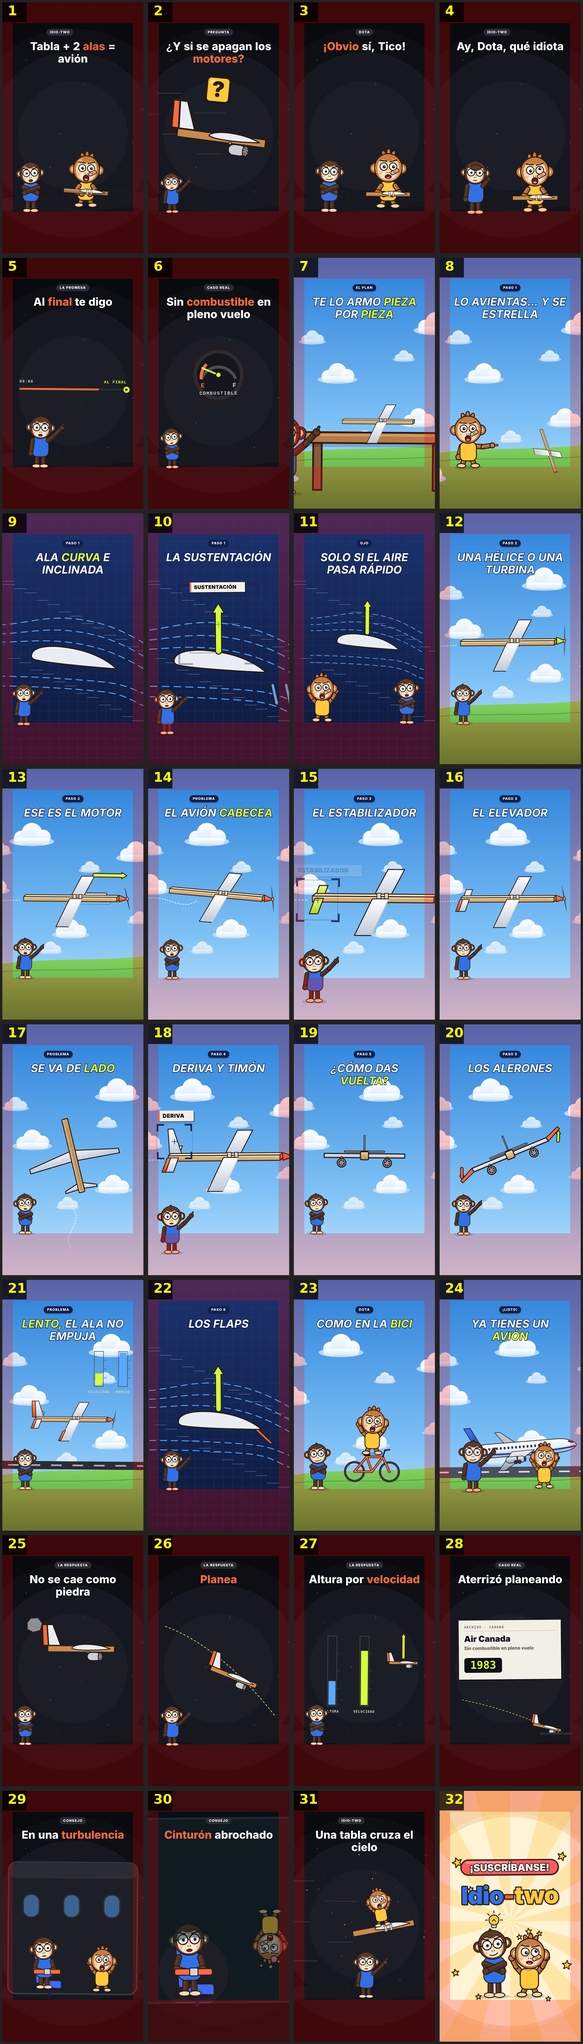
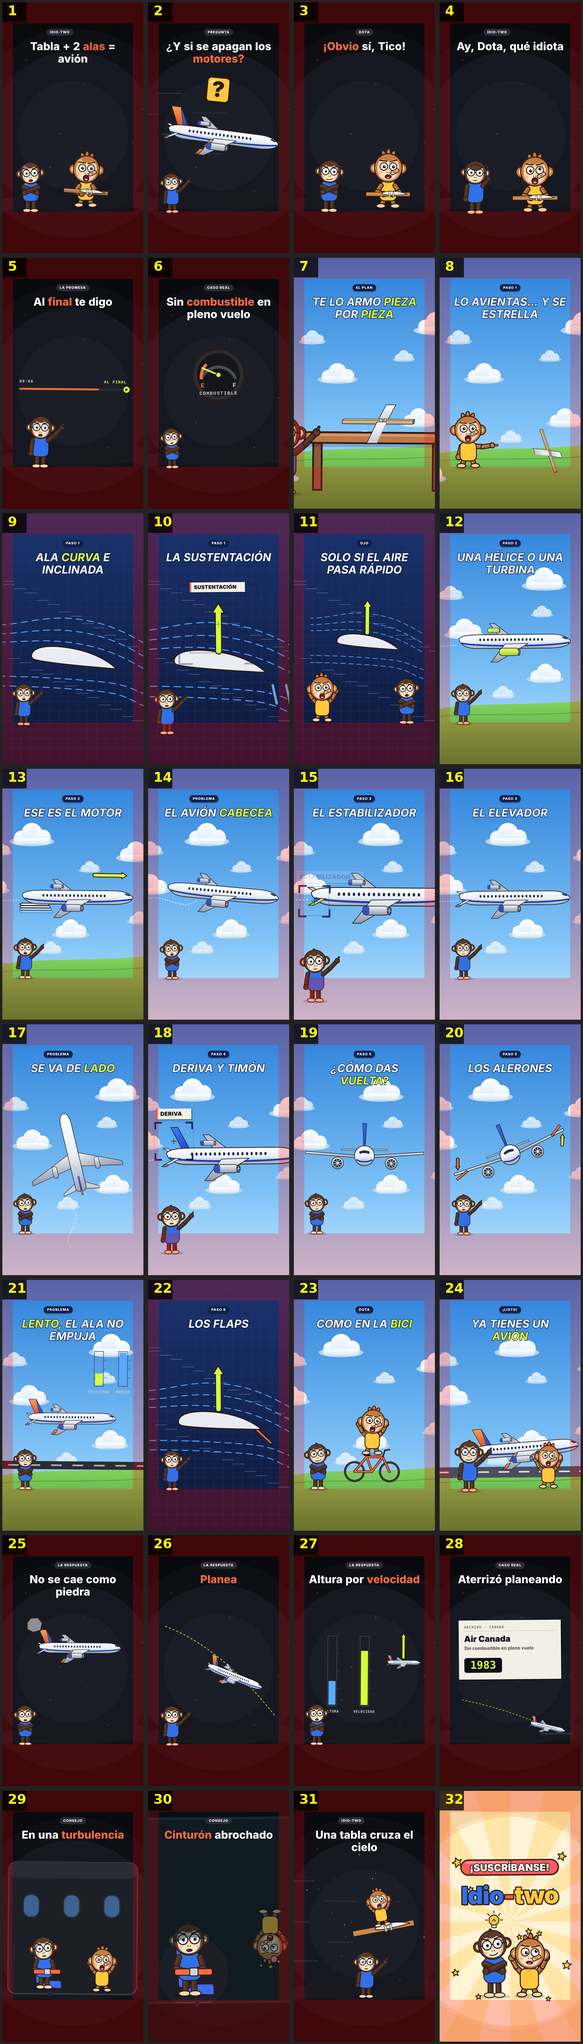
Avion: explain with a commercial airliner (side, front and top views) instead of the board plane
Claude-Session: https://claude.ai/code/session_01CCYL4pfB5svmsfTYwXD8rF

diff --git a/videos/avion/visuals.ts b/videos/avion/visuals.ts
@@ -17,7 +17,7 @@ function vaTalk(tl: VaTl, $: Va$, id: string, s: Scene, who: 'tico' | 'dota') {
 const vaTicoC = (pose: AvTicoPose = 'cross') => avTico('tc', 190, 1590, 0.48, pose);
 const vaDotaC = (pose: AvDotaPose = 'down') => avDota('dc', 900, 1590, 0.55, pose, true);
 // background + camera wrapper
-const vaBurst = (body: string, over = '') => svg(`${avPrint()}<g id="cam"><g id="camP"><g id="camZ">${body}</g>${over}</g></g>`, AV_DEFS);
+const vaBurst = (body: string, over = '') => svg(`${avPrint()}<g id="cam"><g id="camP"><g id="camZ">${body}</g>${over}</g></g>`, AV_SKY_DEFS);
 const vaPrint = vaBurst;
 // the building part uses the sky style of the second reference
 const VA_SKY = new Set(['armo', 'crash', 'wing', 'lift', 'vuela', 'turb', 'motor', 'pitch', 'stab', 'elev', 'yaw', 'fin', 'roll', 'ail', 'slow', 'flaps', 'bike', 'felicidades']);
@@ -75,6 +75,11 @@ function vaMove(tl: VaTl, $: Va$, sel: string, a: [number, number, number], b: [
   document.querySelector($(sel))?.setAttribute('transform', `translate(${a[0]} ${a[1]}) rotate(${a[2]})`);
   tl.fromTo(p, { k: 0 }, { k: 1, duration: d, ease, onUpdate: set, onStart: set }, t);
 }
+// the ailerons of the front view appear painted lime
+function avPaintFront(tl: VaTl, $: Va$, t: number) {
+  tl.set($('#pf-ails'), { opacity: 1 }, t); avPopIn(tl, $('#pf-ailR'), t); avPopIn(tl, $('#pf-ailL'), t);
+  tl.fromTo($('#pf-ails path'), { fill: '#e6ff3a' }, { fill: '#ff9a5a', duration: 0.6, ease: 'power1.in', immediateRender: false }, t + 1.1);
+}
 const vaAll: AvPlaneOpts = { turb: true, stab: true, elev: true, fin: true, rud: true };
 
 defineVisuals({
@@ -90,11 +95,11 @@ defineVisuals({
     },
   },
   off: {
-    html: () => vaBurst(`${vaStreaks()}<g id="pl">${avPlaneSide('p', 560, 1050, 1, vaAll)}</g>${avSmoke('sm', 770, 1110, 0.8, '#5b5e68')}${avQuestion('q', 540, 680, 0.75)}${vaTicoC('point')}`),
+    html: () => vaBurst(`${vaStreaks()}<g id="pl">${avLiner('p', 560, 1050, 0.95, AV_LINER_ALL)}</g>${avSmoke('sm', 430, 1110, 0.8, '#5b5e68')}${avQuestion('q', 540, 680, 0.75)}${vaTicoC('point')}`),
     anim(tl, s, K, $) {
       vaBase(tl, s, $); vaStreakRun(tl, $, s, 1.2); vaBob(tl, $, 'pl', s);
-      vaFan(tl, $, '#p-turb-fan', s.t0, K('off') - s.t0, 10);
-      tl.to($('#p-turb-fan'), { rotation: '+=200', duration: 1.6, ease: 'power3.out' }, K('off'));
+      vaFan(tl, $, '#p-fan, #p-fan2', s.t0, K('off') - s.t0, 10);
+      tl.to($('#p-fan, #p-fan2'), { rotation: '+=200', duration: 1.6, ease: 'power3.out' }, K('off'));
       avPuff(tl, $('#sm'), K('off') + 0.1, -120); avPuff(tl, $('#sm'), K('off') + 0.9, -120);
       tl.to($('#p-body'), { rotation: 8, svgOrigin: '0 0', duration: 0.8, ease: 'power2.inOut' }, K('off') + 0.3);
       tl.set($('#q'), { opacity: 0 }, s.t0).set($('#q'), { opacity: 1 }, K('cae') - 0.05); avPop(tl, $('#q'), K('cae') - 0.05, 0.45);
@@ -202,21 +207,21 @@ defineVisuals({
     },
   },
   turb: {
-    html: () => vaSky(`${avTrail('tr', 140, 1010)}<g id="pl">${avPlane3('p', 520, 1000, 1.05, { tape: true })}</g>${vaTicoC('point')}`, true),
+    html: () => vaSky(`${avTrail('tr', 140, 1010)}<g id="pl">${avLiner('p', 560, 1000, 0.95, {})}</g>${vaTicoC('point')}`, true),
     anim(tl, s, K, $) {
       vaBase(tl, s, $); avSkyRun(tl, $, s); vaBob(tl, $, 'pl', s, 8);
-      avPaint(tl, $, 'p', 'prop', K('turb') - 0.1);
-      tl.fromTo($('#p-spin'), { rotation: 0, svgOrigin: '0 0' }, { rotation: 3600, duration: s.t1 - K('turb'), ease: 'none' }, K('turb'));
+      avPaint(tl, $, 'p', 'eng', K('turb') - 0.1, ['engF']);
+      tl.fromTo($('#p-fan, #p-fan2'), { rotation: 0, svgOrigin: '0 0' }, { rotation: 3600, duration: s.t1 - K('turb'), ease: 'none' }, K('turb'));
       vaTalk(tl, $, 'tc', s, 'tico');
     },
   },
 
   motor: {
-    html: () => vaSky(`${avTrail('tr', 140, 1010)}<g id="air">${[0, 1, 2, 3].map((i) => avArrow(`ai${i}`, 860 - i * 20, 960 + i * 22, 640 - i * 30, 960 + i * 22, '#ffffff', 10)).join('')}</g><g id="pl">${avPlane3('p', 520, 1000, 1.05, { tape: true, prop: true })}</g>
+    html: () => vaSky(`${avTrail('tr', 140, 1010)}<g id="air">${[0, 1, 2, 3].map((i) => avArrow(`ai${i}`, 430 - i * 20, 1040 + i * 18, 220 - i * 30, 1040 + i * 18, '#ffffff', 10)).join('')}</g><g id="pl">${avLiner('p', 560, 1000, 0.95, { eng: true })}</g>
       ${avArrow('fwd', 700, 820, 940, 820, '#e6ff3a', 20)}<g id="dg">${avDota('d', 160, 1560, 0.6, 'down')}</g>${vaTicoC('point')}`, true),
     anim(tl, s, K, $) {
       vaBase(tl, s, $); avSkyRun(tl, $, s, 1.4); vaBob(tl, $, 'pl', s, 6);
-      tl.fromTo($('#p-spin'), { rotation: 0, svgOrigin: '0 0' }, { rotation: 7200, duration: s.t1 - s.t0, ease: 'none' }, s.t0);
+      tl.fromTo($('#p-fan, #p-fan2'), { rotation: 0, svgOrigin: '0 0' }, { rotation: 7200, duration: s.t1 - s.t0, ease: 'none' }, s.t0);
       tl.set($('#air'), { opacity: 0 }, s.t0).set($('#air'), { opacity: 1 }, K('blow'));
       tl.fromTo($('#air g'), { x: 40, opacity: 0 }, { x: -80, opacity: 1, duration: 0.5, ease: 'none', repeat: Math.ceil((s.t1 - K('blow')) / 0.5), stagger: 0.12 }, K('blow'));
       tl.to($('#dg'), { x: -400, y: -700, rotation: -540, svgOrigin: '160 1400', duration: 0.7, ease: 'power2.in' }, K('dota') + 0.1);
@@ -226,9 +231,9 @@ defineVisuals({
   },
 
   pitch: {
-    html: () => vaSky(`<path id="wave" d="M-40 1010 C 120 920, 240 1100, 380 1010" fill="none" stroke="#fff" stroke-width="6" stroke-dasharray="4 16" stroke-linecap="round"/><g id="pl">${avPlane3('p', 520, 1000, 1.05, { tape: true, prop: true })}</g>${vaTicoC()}`),
+    html: () => vaSky(`<path id="wave" d="M-40 1010 C 120 920, 240 1100, 380 1010" fill="none" stroke="#fff" stroke-width="6" stroke-dasharray="4 16" stroke-linecap="round"/><g id="pl">${avLiner('p', 560, 1000, 0.95, { eng: true })}</g>${vaTicoC()}`),
     anim(tl, s, K, $) {
-      vaBase(tl, s, $); avSkyRun(tl, $, s); tl.fromTo($('#p-spin'), { rotation: 0, svgOrigin: '0 0' }, { rotation: 7200, duration: s.t1 - s.t0, ease: 'none' }, s.t0);
+      vaBase(tl, s, $); avSkyRun(tl, $, s); tl.fromTo($('#p-fan, #p-fan2'), { rotation: 0, svgOrigin: '0 0' }, { rotation: 7200, duration: s.t1 - s.t0, ease: 'none' }, s.t0);
       tl.fromTo($('#p-body'), { rotation: -14, svgOrigin: '0 0' }, { rotation: 14, duration: 0.55, ease: 'sine.inOut', yoyo: true, repeat: Math.ceil((s.t1 - s.t0) / 0.55) }, s.t0);
       tl.fromTo($('#pl'), { y: -40 }, { y: 40, duration: 0.55, ease: 'sine.inOut', yoyo: true, repeat: Math.ceil((s.t1 - s.t0) / 0.55) }, s.t0 + 0.27);
       tl.fromTo($('#wave'), { strokeDashoffset: 0 }, { strokeDashoffset: -300, duration: s.t1 - s.t0, ease: 'none' }, s.t0);
@@ -237,9 +242,9 @@ defineVisuals({
   },
 
   stab: {
-    html: () => vaSky(`${avTrail('tr', 140, 1010)}<g id="pl">${avPlane3('p', 520, 1000, 1.05, { tape: true, prop: true })}</g>${vaTicoC('point')}`),
+    html: () => vaSky(`${avTrail('tr', 140, 1010)}<g id="pl">${avLiner('p', 560, 1000, 0.95, { eng: true })}</g>${vaTicoC('point')}`),
     anim(tl, s, K, $) {
-      vaBase(tl, s, $); avSkyRun(tl, $, s); tl.fromTo($('#p-spin'), { rotation: 0, svgOrigin: '0 0' }, { rotation: 7200, duration: s.t1 - s.t0, ease: 'none' }, s.t0);
+      vaBase(tl, s, $); avSkyRun(tl, $, s); tl.fromTo($('#p-fan, #p-fan2'), { rotation: 0, svgOrigin: '0 0' }, { rotation: 7200, duration: s.t1 - s.t0, ease: 'none' }, s.t0);
       tl.fromTo($('#p-body'), { rotation: -12, svgOrigin: '0 0' }, { rotation: 12, duration: 0.55, ease: 'sine.inOut', yoyo: true, repeat: Math.ceil((K('stab') - s.t0) / 0.55) }, s.t0);
       avPaint(tl, $, 'p', 'stab', K('stab') - 0.1, ['stabF']);
       tl.to($('#p-body'), { rotation: 0, svgOrigin: '0 0', duration: 0.9, ease: 'elastic.out(1, 0.5)' }, K('stab') + 0.3);
@@ -248,9 +253,9 @@ defineVisuals({
   },
 
   elev: {
-    html: () => vaSky(`${avTrail('tr', 140, 1010)}<g id="pl">${avPlane3('p', 520, 1000, 1.05, { tape: true, prop: true, stab: true })}</g>${vaTicoC('point')}`),
+    html: () => vaSky(`${avTrail('tr', 140, 1010)}<g id="pl">${avLiner('p', 560, 1000, 0.95, { eng: true, stab: true })}</g>${vaTicoC('point')}`),
     anim(tl, s, K, $) {
-      vaBase(tl, s, $); avSkyRun(tl, $, s); tl.fromTo($('#p-spin'), { rotation: 0, svgOrigin: '0 0' }, { rotation: 7200, duration: s.t1 - s.t0, ease: 'none' }, s.t0);
+      vaBase(tl, s, $); avSkyRun(tl, $, s); tl.fromTo($('#p-fan, #p-fan2'), { rotation: 0, svgOrigin: '0 0' }, { rotation: 7200, duration: s.t1 - s.t0, ease: 'none' }, s.t0);
       avPaint(tl, $, 'p', 'elev', s.t0 + 0.2);
       tl.to($('#p-elevM'), { y: -22, duration: 0.3, ease: 'power2.out' }, K('up') - 0.1); tl.to($('#p-body'), { rotation: -12, svgOrigin: '0 0', duration: 0.5, ease: 'power2.inOut' }, K('up') + 0.1);
       tl.to($('#p-elevM'), { y: 22, duration: 0.3, ease: 'power2.out' }, K('down') - 0.1); tl.to($('#p-body'), { rotation: 10, svgOrigin: '0 0', duration: 0.5, ease: 'power2.inOut' }, K('down') + 0.1);
@@ -260,7 +265,7 @@ defineVisuals({
   },
 
   yaw: {
-    html: () => vaSky(`<path id="tw" d="M540 1700 C 440 1600, 640 1500, 540 1400" fill="none" stroke="#fff" stroke-width="6" stroke-dasharray="4 16" stroke-linecap="round"/>${avPlaneTop('pt', 540, 1000, 0.85, { g: true, stab: true })}${vaTicoC()}`),
+    html: () => vaSky(`<path id="tw" d="M540 1700 C 440 1600, 640 1500, 540 1400" fill="none" stroke="#fff" stroke-width="6" stroke-dasharray="4 16" stroke-linecap="round"/>${avLinerTop('pt', 540, 1000, 0.8)}${vaTicoC()}`),
     anim(tl, s, K, $) {
       vaBase(tl, s, $); avSkyRun(tl, $, s, 0.6);
       tl.fromTo($('#pt-body'), { rotation: -14, svgOrigin: '0 0' }, { rotation: 14, duration: 0.42, ease: 'sine.inOut', yoyo: true, repeat: Math.ceil((s.t1 - s.t0) / 0.42) }, s.t0);
@@ -271,34 +276,34 @@ defineVisuals({
   },
 
   fin: {
-    html: () => vaSky(`${avTrail('tr', 140, 1010)}<g id="pl">${avPlane3('p', 520, 1000, 1.05, { tape: true, prop: true, stab: true, elev: true })}</g>
+    html: () => vaSky(`${avTrail('tr', 140, 1010)}<g id="pl">${avLiner('p', 560, 1000, 0.95, { eng: true, stab: true, elev: true })}</g>
       <g id="shark" opacity="0"><path d="M770 1480 L860 1340 L880 1480Z" fill="#5b6a80" stroke="${AV.o}" stroke-width="6" stroke-linejoin="round"/><path d="M740 1490 q 30 -12 60 0 q 30 12 60 0 q 30 -12 60 0" fill="none" stroke="#fff" stroke-width="6"/></g>${vaTicoC('point')}`),
     anim(tl, s, K, $) {
-      vaBase(tl, s, $); avSkyRun(tl, $, s); tl.fromTo($('#p-spin'), { rotation: 0, svgOrigin: '0 0' }, { rotation: 7200, duration: s.t1 - s.t0, ease: 'none' }, s.t0);
+      vaBase(tl, s, $); avSkyRun(tl, $, s); tl.fromTo($('#p-fan, #p-fan2'), { rotation: 0, svgOrigin: '0 0' }, { rotation: 7200, duration: s.t1 - s.t0, ease: 'none' }, s.t0);
       avPaint(tl, $, 'p', 'fin', K('fin') - 0.1);
       tl.set($('#shark'), { opacity: 1 }, K('fin') + 0.6); tl.fromTo($('#shark'), { x: 200 }, { x: -60, duration: 1.2, ease: 'power1.inOut', immediateRender: false }, K('fin') + 0.6); tl.to($('#shark'), { opacity: 0, duration: 0.3 }, K('fin') + 1.6);
       avPaint(tl, $, 'p', 'rud', K('rud') - 0.2);
-      tl.fromTo($('#p-rudM'), { scaleX: 1, svgOrigin: '-322 -96' }, { scaleX: 0.3, duration: 0.25, yoyo: true, repeat: 3, ease: 'sine.inOut' }, K('rud') + 0.3);
+      tl.fromTo($('#p-rudM'), { scaleX: 1, svgOrigin: '-338 -110' }, { scaleX: 0.3, duration: 0.25, yoyo: true, repeat: 3, ease: 'sine.inOut' }, K('rud') + 0.3);
       vaTalk(tl, $, 'tc', s, 'tico');
     },
   },
 
   roll: {
-    html: () => vaSky(`<g id="pl">${avPlaneFront('pf', 540, 1000, 1, { g: true, turb: true })}</g>${vaTicoC()}`),
+    html: () => vaSky(`<g id="pl">${avLinerFront('pf', 540, 1000, 1, {})}</g>${vaTicoC()}`),
     anim(tl, s, K, $) {
       vaBase(tl, s, $); avSkyRun(tl, $, s); vaBob(tl, $, 'pl', s, 8);
       vaFan(tl, $, '#pf-fan0', s.t0, s.t1 - s.t0, 10); vaFan(tl, $, '#pf-fan1', s.t0, s.t1 - s.t0, 10);
-      tl.set($('#pf-ails'), { opacity: 1 }, K('tips') - 0.1); avPopIn(tl, $('#pf-ailR'), K('tips') - 0.1); avPopIn(tl, $('#pf-ailL'), K('tips') - 0.1);
+      tl.set($('#pf-ails'), { opacity: 1 }, K('tips') - 0.1); avPaintFront(tl, $, K('tips') - 0.1);
       vaTalk(tl, $, 'tc', s, 'tico');
     },
   },
   ail: {
-    html: () => vaSky(`<g id="pl">${avPlaneFront('pf', 540, 1000, 1, { g: true, turb: true, ail: true })}</g>${avArrow('upA', 900, 900, 900, 820, AVP.lime, 14)}${avArrow('dnA', 180, 1100, 180, 1180, AVP.orange, 14)}${vaTicoC('point')}`),
+    html: () => vaSky(`<g id="pl">${avLinerFront('pf', 540, 1000, 1, { ail: true })}</g>${avArrow('upA', 930, 930, 930, 850, '#e6ff3a', 14)}${avArrow('dnA', 150, 1030, 150, 1110, AVP.orange, 14)}${vaTicoC('point')}`),
     anim(tl, s, K, $) {
       vaBase(tl, s, $); avSkyRun(tl, $, s);
       vaFan(tl, $, '#pf-fan0', s.t0, s.t1 - s.t0, 12); vaFan(tl, $, '#pf-fan1', s.t0, s.t1 - s.t0, 12);
-      tl.to($('#pf-ailR'), { rotation: -24, svgOrigin: '300 0', duration: 0.3, ease: 'power2.out' }, K('up') - 0.1);
-      tl.to($('#pf-ailL'), { rotation: -24, svgOrigin: '-300 0', duration: 0.3, ease: 'power2.out' }, K('up') + 0.6);
+      tl.to($('#pf-ailR'), { rotation: -24, svgOrigin: '340 -10', duration: 0.3, ease: 'power2.out' }, K('up') - 0.1);
+      tl.to($('#pf-ailL'), { rotation: -24, svgOrigin: '-340 -10', duration: 0.3, ease: 'power2.out' }, K('up') + 0.6);
       avPopIn(tl, $('#upA'), K('up') + 0.1); avPopIn(tl, $('#dnA'), K('up') + 0.8);
       tl.to($('#pf-body'), { rotation: -22, svgOrigin: '0 0', duration: 0.9, ease: 'power2.inOut' }, K('bank') - 0.2);
       vaTalk(tl, $, 'tc', s, 'tico');
@@ -306,10 +311,10 @@ defineVisuals({
   },
   slow: {
     html: () => vaSky(`<rect x="0" y="1380" width="1080" height="60" fill="#2a2c35"/>${[...Array(7)].map((_, i) => `<rect x="${60 + i * 160}" y="1404" width="80" height="12" fill="#e8e6dc" opacity="0.7"/>`).join('')}
-      <g id="pl">${avPlane3('p', 520, 1000, 0.8, { tape: true, prop: true, stab: true, elev: true, fin: true, rud: true, ail: true })}</g>${avBar('bv', 730, 820, 'VELOCIDAD', AVP.lime, 260)}${avBar('bl', 910, 820, 'EMPUJE', AVP.air, 260)}${vaTicoC()}`, true),
+      <g id="pl">${avLiner('p', 520, 1000, 0.75, AV_LINER_ALL)}</g>${avBar('bv', 730, 820, 'VELOCIDAD', AVP.lime, 260)}${avBar('bl', 910, 820, 'EMPUJE', AVP.air, 260)}${vaTicoC()}`, true),
     anim(tl, s, K, $) {
       vaBase(tl, s, $);
-      tl.fromTo($('#p-spin'), { rotation: 0, svgOrigin: '0 0' }, { rotation: 1800, duration: s.t1 - s.t0, ease: 'none' }, s.t0); avSkyRun(tl, $, s, 0.5);
+      tl.fromTo($('#p-fan, #p-fan2'), { rotation: 0, svgOrigin: '0 0' }, { rotation: 1800, duration: s.t1 - s.t0, ease: 'none' }, s.t0); avSkyRun(tl, $, s, 0.5);
       tl.fromTo($('#pl'), { x: -120, y: -40 }, { x: 60, y: 120, duration: s.t1 - s.t0, ease: 'sine.inOut' }, s.t0);
       avBarTo(tl, $, 'bv', 0.35, K('lento') - 0.1, 0.8, 812); avBarTo(tl, $, 'bl', 0.25, K('weak') - 0.1, 0.6, 812);
       tl.to($('#p-body'), { rotation: 8, svgOrigin: '0 0', duration: 0.5, yoyo: true, repeat: 1 }, K('weak'));
@@ -340,35 +345,33 @@ defineVisuals({
   },
   felicidades: {
     html: () => vaSky(`<rect x="-40" y="1420" width="1160" height="80" fill="#4a4f5c"/>${[...Array(8)].map((_, i) => `<rect x="${i * 150}" y="1452" width="80" height="12" fill="#fff" opacity="0.8"/>`).join('')}
-      <g id="small">${avPlane3('pp', 540, 1000, 1.0, { tape: true, prop: true, stab: true, elev: true, fin: true, rud: true, ail: true, flap: true })}</g><circle id="glow" cx="540" cy="1000" r="420" fill="#fff" opacity="0"/>
-      <g id="big" opacity="0"><g id="bigM">${avAirliner('al', 0, 0, 0.95)}</g></g>${avArrow('lift2', 540, 960, 540, 760, '#e6ff3a', 18)}
-      ${avTico('tk', 260, 1600, 0.6, 'point')}${avDota('d', 790, 1600, 0.68, 'up')}`, true),
+      <g id="bigM">${avLiner('al', 0, 0, 0.9, AV_LINER_ALL)}</g><circle id="glow" cx="520" cy="1290" r="460" fill="#fff" opacity="0"/>
+      ${avTico('tk', 230, 1600, 0.6, 'point')}${avDota('d', 820, 1600, 0.68, 'up')}`, true),
     anim(tl, s, K, $) {
       vaBase(tl, s, $); avSkyRun(tl, $, s, 0.6);
-      tl.fromTo($('#pp-spin'), { rotation: 0, svgOrigin: '0 0' }, { rotation: 3600, duration: K('glow') - s.t0 + 0.6, ease: 'none' }, s.t0);
-      tl.set($('#lift2'), { opacity: 0 }, s.t0);
-      tl.fromTo($('#glow'), { opacity: 0, scale: 0.3, svgOrigin: '540 1000' }, { keyframes: [{ opacity: 0.95, scale: 1, duration: 0.45, ease: 'power2.out' }, { opacity: 0, scale: 1.4, duration: 0.6, ease: 'power1.in' }] }, K('glow'));
-      tl.to($('#small'), { opacity: 0, duration: 0.2 }, K('glow') + 0.4);
-      tl.set($('#big'), { opacity: 1 }, K('glow') + 0.4);
-      vaMove(tl, $, '#bigM', [420, 1340, 0], [420, 1340, 0], s.t0, 0.05);
-      vaMove(tl, $, '#bigM', [420, 1340, 0], [600, 1300, -4], K('glow') + 0.4, K('wow') - K('glow') - 0.4, 'power1.in');
-      vaMove(tl, $, '#bigM', [600, 1300, -4], [1500, 700, -16], K('wow'), s.t1 - K('wow'), 'power1.in');
+      tl.fromTo($('#al-fan, #al-fan2'), { rotation: 0, svgOrigin: '0 0' }, { rotation: 7200, duration: s.t1 - s.t0, ease: 'none' }, s.t0);
+      vaMove(tl, $, '#bigM', [460, 1340, 0], [460, 1340, 0], s.t0, 0.05);
+      ['eng', 'engF', 'stab', 'stabF', 'elev', 'fin', 'rud', 'ail', 'flap'].forEach((pp, i) => { tl.set($(`#al-${pp}Hi`), { opacity: 1 }, K('glow') - 0.6 + i * 0.07); tl.to($(`#al-${pp}Hi`), { opacity: 0, duration: 0.5 }, K('glow') + 0.6 + i * 0.05); });
+      tl.fromTo($('#glow'), { opacity: 0, scale: 0.3, svgOrigin: '520 1290' }, { keyframes: [{ opacity: 0.8, scale: 1, duration: 0.4, ease: 'power2.out' }, { opacity: 0, scale: 1.4, duration: 0.6, ease: 'power1.in' }] }, K('glow'));
+      vaMove(tl, $, '#bigM', [460, 1340, 0], [640, 1300, -4], K('glow') + 0.4, K('wow') - K('glow') - 0.4, 'power1.in');
+      vaMove(tl, $, '#bigM', [640, 1300, -4], [1500, 700, -16], K('wow'), s.t1 - K('wow'), 'power1.in');
       avHop(tl, $('#d'), K('wow') - 0.1, 3, 30);
       vaTalk(tl, $, 'tk', s, 'tico'); vaTalk(tl, $, 'd', s, 'dota');
     },
   },
+
   rock: {
-    html: () => vaBurst(`<g id="pl">${avPlaneSide('p', 600, 880, 0.75, vaAll)}</g>${avRock('rk', 250, 700, 0.9)}<line id="rkLine" x1="250" y1="760" x2="250" y2="1500" stroke="#8d8f96" stroke-width="4" stroke-dasharray="12 12" opacity="0"/>${avSmoke('sm', 760, 940, 0.6, '#5b5e68')}${vaTicoC()}`),
+    html: () => vaBurst(`<g id="pl">${avLiner('p', 580, 880, 0.7, AV_LINER_ALL)}</g>${avRock('rk', 250, 700, 0.9)}<line id="rkLine" x1="250" y1="760" x2="250" y2="1500" stroke="#8d8f96" stroke-width="4" stroke-dasharray="12 12" opacity="0"/>${avSmoke('sm', 500, 940, 0.6, '#5b5e68')}${vaTicoC()}`),
     anim(tl, s, K, $) {
       vaBase(tl, s, $); vaBob(tl, $, 'pl', s, 8);
-      vaFan(tl, $, '#p-turb-fan', s.t0, K('off') - s.t0, 6); tl.to($('#p-turb-fan'), { rotation: '+=160', duration: 1.4, ease: 'power3.out' }, K('off'));
+      vaFan(tl, $, '#p-fan, #p-fan2', s.t0, K('off') - s.t0, 6); tl.to($('#p-fan, #p-fan2'), { rotation: '+=160', duration: 1.4, ease: 'power3.out' }, K('off'));
       avPuff(tl, $('#sm'), K('off') + 0.1, -100);
       tl.set($('#rkLine'), { opacity: 0.6 }, K('rock')); tl.fromTo($('#rk'), { y: 0, rotation: 0 }, { y: 760, rotation: 120, svgOrigin: '250 700', duration: 0.6, ease: 'power2.in', immediateRender: false }, K('rock'));
       vaTalk(tl, $, 'tc', s, 'tico');
     },
   },
   glide: {
-    html: () => vaBurst(`<path id="path" d="M140 700 Q 560 860 960 1380" fill="none" stroke="${AVP.lime}" stroke-width="6" stroke-dasharray="16 14" opacity="0.8"/><g id="pl">${avPlaneSide('p', 0, 0, 0.55, vaAll)}</g>${vaTicoC('point')}`),
+    html: () => vaBurst(`<path id="path" d="M140 700 Q 560 860 960 1380" fill="none" stroke="${AVP.lime}" stroke-width="6" stroke-dasharray="16 14" opacity="0.8"/><g id="pl">${avLiner('p', 0, 0, 0.5, AV_LINER_ALL)}</g>${vaTicoC('point')}`),
     anim(tl, s, K, $) {
       vaBase(tl, s, $);
       tl.fromTo($('#path'), { strokeDashoffset: 0 }, { strokeDashoffset: -200, duration: s.t1 - s.t0, ease: 'none' }, s.t0);
@@ -377,7 +380,7 @@ defineVisuals({
     },
   },
   trade: {
-    html: () => vaBurst(`${avBar('ba', 300, 1300, 'ALTURA', AVP.air, 520)}${avBar('bs', 540, 1300, 'VELOCIDAD', AVP.lime, 520)}<g id="mini">${avPlaneSide('pm', 830, 900, 0.32, vaAll)}${avArrow('liftM', 830, 860, 830, 680, AVP.lime, 16)}</g>${vaTicoC()}`),
+    html: () => vaBurst(`${avBar('ba', 300, 1300, 'ALTURA', AVP.air, 520)}${avBar('bs', 540, 1300, 'VELOCIDAD', AVP.lime, 520)}<g id="mini">${avLiner('pm', 830, 900, 0.28, AV_LINER_ALL)}${avArrow('liftM', 830, 860, 830, 680, AVP.lime, 16)}</g>${vaTicoC()}`),
     anim(tl, s, K, $) {
       vaBase(tl, s, $);
       tl.set($('#bs-fill'), { scaleY: 0.55, svgOrigin: '0 1292' }, s.t0);
@@ -388,7 +391,7 @@ defineVisuals({
     },
   },
   canada: {
-    html: () => vaBurst(`${avDossier('ds', 540, 880, 'ARCHIVO · CANADÁ', 'Air Canada', '1983', 'Sin combustible en pleno vuelo')}<path id="gpath" d="M180 1250 Q 560 1330 900 1500" fill="none" stroke="${AVP.lime}" stroke-width="5" stroke-dasharray="14 12" opacity="0.7"/><g id="gp">${avPlaneSide('pg', 0, 0, 0.32, vaAll)}</g><rect x="760" y="1500" width="240" height="16" fill="#2a2c35"/>`),
+    html: () => vaBurst(`${avDossier('ds', 540, 880, 'ARCHIVO · CANADÁ', 'Air Canada', '1983', 'Sin combustible en pleno vuelo')}<path id="gpath" d="M180 1250 Q 560 1330 900 1500" fill="none" stroke="${AVP.lime}" stroke-width="5" stroke-dasharray="14 12" opacity="0.7"/><g id="gp">${avLiner('pg', 0, 0, 0.3, AV_LINER_ALL)}</g><rect x="760" y="1500" width="240" height="16" fill="#2a2c35"/>`),
     anim(tl, s, K, $) {
       vaBase(tl, s, $);
       tl.set($('#ds'), { opacity: 0 }, s.t0); tl.fromTo($('#ds'), { opacity: 0, y: 140, rotation: -3, transformOrigin: '50% 50%' }, { opacity: 1, y: 0, rotation: 0, duration: 0.5, ease: 'power3.out', immediateRender: false }, K('card') - 0.15);

diff --git a/videos/avion/world.ts b/videos/avion/world.ts
@@ -719,3 +719,54 @@ function avAirliner(id: string, x: number, y: number, s = 1) {
     <g id="${id}-gear"><line x1="300" y1="44" x2="300" y2="80" stroke="${O}" stroke-width="8"/><circle cx="300" cy="86" r="14" fill="#2b2f3a"/><line x1="-20" y1="44" x2="-20" y2="84" stroke="${O}" stroke-width="10"/><circle cx="-34" cy="92" r="16" fill="#2b2f3a"/><circle cx="-4" cy="92" r="16" fill="#2b2f3a"/></g>
   </g></g>`;
 }
+
+// =====================================================================
+//  The commercial airliner with parts that can be added (for the explanation), in 3 views.
+//  Side view (nose right): parts eng, stab (+stabF), elev, fin, rud, ail, flap — each with a lime "Hi" twin (avPaint).
+// =====================================================================
+interface AvLinerOpts { eng?: boolean; stab?: boolean; elev?: boolean; fin?: boolean; rud?: boolean; ail?: boolean; flap?: boolean }
+const AV_LINER_ALL: AvLinerOpts = { eng: true, stab: true, elev: true, fin: true, rud: true, ail: true, flap: true };
+function avLiner(id: string, x: number, y: number, s = 1, o: AvLinerOpts = {}) {
+  const O = '#22252e', poly = (pts: number[][], fill: string) => `<path d="M${pts.map((p) => p.join(' ')).join(' L')}Z" fill="${fill}" stroke="${O}" stroke-width="4" stroke-linejoin="round"/>`;
+  const part = (pid: string, on: boolean, inner: string, hi: string) => `<g id="${id}-${pid}"${avVis(on)}><g id="${id}-${pid}M">${inner}<g id="${id}-${pid}Hi" opacity="0">${hi}</g></g></g>`;
+  const P = (pid: string, on: boolean, pts: number[][], fill: string) => part(pid, on, poly(pts, fill), poly(pts, 'url(#gLime)'));
+  const wins = [...Array(17)].map((_, i) => `<rect x="${-260 + i * 30}" y="-34" width="14" height="20" rx="6" fill="#203050"/>`).join('');
+  const engine = (ex: number, ey: number, k: number, fid: string) => `<g transform="translate(${ex} ${ey}) scale(${k})"><rect x="-80" y="-26" width="160" height="54" rx="27" fill="url(#gMetal)" stroke="${O}" stroke-width="4"/><rect x="-80" y="-26" width="40" height="54" rx="14" fill="#1b3fb0" opacity="0.85"/>
+    <g transform="translate(80 1)"><ellipse rx="12" ry="26" fill="#2b2f3a" stroke="${O}" stroke-width="3"/><g transform="scale(0.45 1)"><g id="${fid}">${[0, 1, 2, 3, 4, 5].map((k2) => `<rect x="-3" y="-24" width="6" height="24" fill="#aab4c4" transform="rotate(${k2 * 60})"/>`).join('')}</g></g></g></g>`;
+  const engHi = (ex: number, ey: number, k: number) => `<g transform="translate(${ex} ${ey}) scale(${k})"><rect x="-80" y="-26" width="160" height="54" rx="27" fill="url(#gLime)" stroke="${O}" stroke-width="4"/></g>`;
+  return `<g id="${id}"><g transform="translate(${x} ${y}) scale(${s})"><g id="${id}-body">
+    ${P('stabF', !!o.stab, [[-340, -22], [-410, -62], [-440, -62], [-372, -22]], 'url(#gW)')}
+    ${poly([[-60, 10], [-180, -150], [-140, -150], [60, 6]], '#b8c2d2')}
+    ${part('engF', !!o.eng, engine(-150, -96, 0.6, `${id}-fan2`), engHi(-150, -96, 0.6))}
+    ${P('fin', !!o.fin, [[-300, -24], [-390, -200], [-344, -200], [-250, -24]], 'url(#gTail)')}${P('rud', !!o.rud, [[-344, -200], [-390, -200], [-418, -200], [-338, -24], [-300, -24]], 'url(#gOr)')}
+    <path d="M-420 -30 C -400 -62, -320 -64, -220 -64 L 300 -64 C 380 -64, 430 -40, 450 -10 C 440 20, 400 40, 300 44 L -280 44 C -360 44, -410 10, -420 -30Z" fill="url(#gBody)" stroke="${O}" stroke-width="5"/>
+    <path d="M-400 0 C -300 30, 300 34, 440 0" stroke="#1b3fb0" stroke-width="12" fill="none"/>${wins}<path d="M392 -46 L428 -30 L420 -22 L384 -36Z" fill="#203050"/>
+    ${poly([[-60, 10], [120, 6], [-120, 150], [-170, 150]], 'url(#gMetal)')}
+    ${P('flap', !!o.flap, [[-58, 20], [-104, 82], [-132, 82], [-86, 20]], 'url(#gOr)')}${P('ail', !!o.ail, [[-128, 104], [-162, 148], [-190, 148], [-156, 104]], 'url(#gOr)')}
+    ${part('eng', !!o.eng, engine(-30, 72, 1, `${id}-fan`), engHi(-30, 72, 1))}
+    ${P('stab', !!o.stab, [[-330, 4], [-404, 44], [-436, 44], [-362, 4]], 'url(#gW)')}${P('elev', !!o.elev, [[-404, 44], [-436, 44], [-450, 56], [-418, 56]], 'url(#gOr)')}
+  </g></g></g>`;
+}
+// front view (looking at its nose): wings left-right with dihedral, engines under them, ailerons at the tips (hinged at ±340), fin on top
+function avLinerFront(id: string, x: number, y: number, s = 1, o: { ail?: boolean; eng?: boolean } = {}) {
+  const O = '#22252e', ail = (sd: number) => `<g id="${id}-ail${sd > 0 ? 'R' : 'L'}"><path d="M${340 * sd} ${-18} L${440 * sd} ${-30} L${440 * sd} ${-14} L${340 * sd} ${-2}Z" fill="url(#gOr)" stroke="${O}" stroke-width="4" stroke-linejoin="round"/></g>`;
+  const eng = (ex: number, i: number) => `<g transform="translate(${ex} 56)"><circle r="44" fill="url(#gMetal)" stroke="${O}" stroke-width="4"/><circle r="32" fill="#2b2f3a"/><g id="${id}-fan${i}">${[0, 1, 2, 3, 4, 5, 6, 7].map((k) => `<rect x="-3" y="-30" width="6" height="30" fill="#aab4c4" transform="rotate(${k * 45})"/>`).join('')}</g><circle r="8" fill="#e6ebf2"/></g>`;
+  return `<g id="${id}"><g transform="translate(${x} ${y}) scale(${s})"><g id="${id}-body">
+    <path d="M-6 -60 L-14 -240 L14 -240 L6 -60Z" fill="url(#gTail)" stroke="${O}" stroke-width="4"/><path d="M-170 -50 L170 -50 L170 -40 L-170 -40Z" fill="#c9d1de" stroke="${O}" stroke-width="3"/>
+    <path d="M-440 -14 L0 20 L440 -14 L440 -30 L0 0 L-440 -30Z" fill="url(#gMetal)" stroke="${O}" stroke-width="4" stroke-linejoin="round"/>
+    <g id="${id}-ails"${avVis(!!o.ail)}>${ail(1)}${ail(-1)}</g>
+    <g${avVis(o.eng !== false)}><line x1="-200" y1="10" x2="-200" y2="20" stroke="${O}" stroke-width="10"/><line x1="200" y1="10" x2="200" y2="20" stroke="${O}" stroke-width="10"/>${eng(-200, 0)}${eng(200, 1)}</g>
+    <circle r="74" fill="url(#gBody)" stroke="${O}" stroke-width="5"/><path d="M-40 -30 Q0 -50 40 -30 L34 -14 Q0 -26 -34 -14Z" fill="#203050"/><path d="M-60 30 Q0 60 60 30" stroke="#1b3fb0" stroke-width="10" fill="none"/>
+  </g></g></g>`;
+}
+// top view (nose up): body, swept wings with engines, tail plane, fin line and the rudder at the very end (hinged at y = 330)
+function avLinerTop(id: string, x: number, y: number, s = 1) {
+  const O = '#22252e';
+  return `<g id="${id}"><g transform="translate(${x} ${y}) scale(${s})"><g id="${id}-body">
+    <path d="M-40 -20 L-430 150 L-430 190 L-40 110 L40 110 L430 190 L430 150 L40 -20Z" fill="url(#gMetal)" stroke="${O}" stroke-width="4" stroke-linejoin="round"/>
+    ${[-200, 200].map((ex) => `<rect x="${ex - 22}" y="${20 + Math.abs(ex) * 0.2}" width="44" height="110" rx="20" fill="url(#gMetal)" stroke="${O}" stroke-width="4"/>`).join('')}
+    <path d="M-30 250 L-170 330 L-170 350 L-30 320 L30 320 L170 350 L170 330 L30 250Z" fill="#c9d1de" stroke="${O}" stroke-width="4"/>
+    <path d="M0 -400 C 40 -400, 50 -340, 50 -280 L50 300 C 50 330, 30 340, 0 340 C -30 340, -50 330, -50 300 L-50 -280 C -50 -340, -40 -400, 0 -400Z" fill="url(#gBody)" stroke="${O}" stroke-width="5"/>
+    <rect x="-6" y="200" width="12" height="130" fill="url(#gTail)" stroke="${O}" stroke-width="3"/><g id="${id}-rudM"><rect x="-6" y="330" width="12" height="44" fill="url(#gOr)" stroke="${O}" stroke-width="3"/></g>
+  </g></g></g>`;
+}

diff --git a/videos/avion/plan.md b/videos/avion/plan.md
@@ -15,7 +15,7 @@
 Tempo 104 en E. Curva: curioso (gancho) → tenso (motores apagados) → juguetón (Dota) → calma/asombro al armar cada pieza, tenso en cada problema (cabecea, se va de lado, lento) → épico en Air Canada → triunfal en el consejo y el cierre. Capa de efectos (`foley.ts`): turbina y su apagado, viento por el ala, choque de la tabla, tapitas, timbre de bici, sello, clic del cinturón, golpe en el techo y "ding" en cada pieza.
 
 ## Versión 2 (audio con la escena «¡Felicidades, ya tienes un avión!»)
-- **Armado del avión en estilo cielo** (segunda referencia del usuario): de «Te lo armo pieza por pieza» a «Ya tienes un avión». Cielo con degradado, nubes en 3 capas con paralaje, pasto; avión de tabla en 3/4 (`avPlane3`) con sombreado suave para dar volumen; cada pieza nueva se pinta de lima y luego toma su color (`avPaint`); estela punteada; títulos en mayúsculas cursivas blancas con contorno. El ala en corte va sobre azul marino con rejilla (`avNavyGrid`).
+- **Armado del avión en estilo cielo** (segunda referencia del usuario): de «Te lo armo pieza por pieza» a «Ya tienes un avión». Cielo con degradado, nubes en 3 capas con paralaje, pasto; avión COMERCIAL (`avLiner`, de lado; `avLinerFront`, `avLinerTop`) con sombreado suave; la tabla con alas solo donde el guion la nombra (gancho, mesa, se estrella, cierre) para dar volumen; cada pieza nueva se pinta de lima y luego toma su color (`avPaint`); estela punteada; títulos en mayúsculas cursivas blancas con contorno. El ala en corte va sobre azul marino con rejilla (`avNavyGrid`).
 - **Nueva escena:** la tabla con todas sus piezas brilla y se vuelve un avión comercial (`avAirliner`) que despega; Tico y Dota lo miran.
 - **Lo demás** (gancho, respuesta, Air Canada, turbulencia, cierre) sigue en el estilo oscuro de puntos; el final es el banner.
 - **Límite:** el estilo 3D del proyecto no se puede mezclar con flat2d en un mismo video; el volumen es con sombreado suave.
